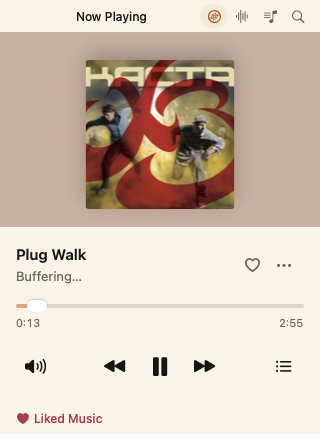
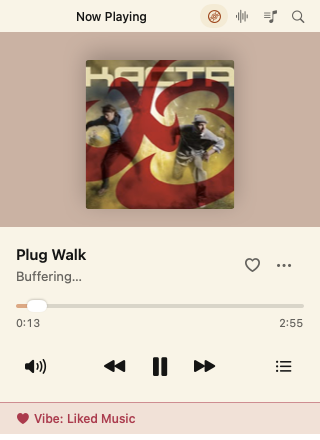
Now Playing's bottom line: a wash and a rule of the source's colour
The glass of the line along the bottom carries 10% of the source's
colour (a vibe's, or the accent), and the hairline above it is that
colour at 50%, so the line reads as belonging to what plays, not as a
grey divider.

Changed region(s): [[0.0938, 0.9159, 0.4375, 0.975]]

diff --git a/Sources/BSide/Views/NowPlaying/NowPlayingPage.swift b/Sources/BSide/Views/NowPlaying/NowPlayingPage.swift
@@ -14,6 +14,7 @@ struct NowPlayingPage: View {
     @Environment(\.previewArtworkHover) private var previewArtworkHover
     @Environment(\.pageShown) private var pageShown
     @ObservedObject private var outputs = AudioOutputs.shared
+    @Environment(\.colorScheme) private var colorScheme
 
     var body: some View {
         if let blocked = blockingState(for: player) {
@@ -108,10 +109,19 @@ struct NowPlayingPage: View {
                 .frame(height: Theme.Size.sourceBar)
                 .frame(maxWidth: .infinity)
                 .barGlass(joined: .bottom)
-                .overlay(alignment: .top) { Divider() } // a line between the controls and the bar
+                // A wash of the source's colour over the glass, and a rule
+                // of it above: the line belongs to what plays.
+                .overlay { sourceColour.opacity(Theme.Opacity.sourceWash).allowsHitTesting(false) }
+                .overlay(alignment: .top) { sourceColour.opacity(Theme.Opacity.sourceRule).frame(height: Theme.Size.hairline) }
                 .animation(.easeInOut(duration: Theme.Motion.page), value: player.sourceLabel)
             }
         }
+    }
+
+    /// The source's colour, for the bottom line; the muted text colour when
+    /// only the output device is on it.
+    private var sourceColour: Color {
+        player.sourceLabel.map { SourceLine.colour(of: $0, in: colorScheme) } ?? Theme.Colors.textMuted
     }
 
     /// Opens the list of what plays next in the artwork's place, and closes

diff --git a/Sources/BSide/Design/Theme.swift b/Sources/BSide/Design/Theme.swift
@@ -134,6 +134,8 @@ enum Theme {
         /// The progress bar: its line, its knob, how tall it is to the
         /// pointer, and the room a time label takes beside it.
         static var progressLine: CGFloat { (4) * scale }
+        /// The hairline above Now Playing's bottom line.
+        static let hairline: CGFloat = 1
         static var progressKnob: CGSize { CGSize(width: 20 * scale, height: 12 * scale) }
         static var progressTarget: CGFloat { (20) * scale }
         static var progressTick: CGFloat { (2) * scale }
@@ -182,6 +184,10 @@ enum Theme {
 
     enum Opacity {
         static let pressed: Double = 0.7
+        /// The source's colour over the glass of Now Playing's bottom line,
+        /// and in the hairline above it.
+        static let sourceWash: Double = 0.1
+        static let sourceRule: Double = 0.5
         /// The dark veil over the album cover while its actions show.
         static let scrim: Double = 0.45
         /// The hover circle under icon buttons, in the text colour.

diff --git a/Sources/BSide/Views/Window/NowPlayingStrip.swift b/Sources/BSide/Views/Window/NowPlayingStrip.swift
@@ -124,16 +124,16 @@ struct SourceLine: View {
         }
         .font(font)
         .fontWeight(.medium)
-        .foregroundStyle(colour)
+        .foregroundStyle(Self.colour(of: label, in: colorScheme))
         .lineLimit(1)
     }
 
     /// A vibe's deep colour on the light glass, its light one on the dark.
-    private var colour: Color {
+    static func colour(of label: SourceLabel, in scheme: ColorScheme) -> Color {
         switch label.kind {
         case .vibe(let index):
             let swatch = VibePalette.swatches[index]
-            return colorScheme == .dark ? swatch.light : swatch.deep
+            return scheme == .dark ? swatch.light : swatch.deep
         case .playlist, .album, .artist, .radio:
             return Theme.Colors.accentText
         }

diff --git a/design/SCREENS.md b/design/SCREENS.md
@@ -40,8 +40,9 @@ make them 15% and 30% bigger, and the window's least size with them.
   where, in the label role, the kind first ("Vibe: Focus", "Playlist:
   Night drive", "Album: …", "Artist: …", "Radio: <track>"), as the strip
   has it under the track on the other pages: a vibe in its colour, the
-  rest in the accent (since 2026-10-03). A hairline above it parts it
-  from the controls. A click goes to the source: the Vibe page, the
+  rest in the accent (since 2026-10-03). The glass carries a wash of that
+  colour (10%) and a hairline of it (50%) above, so the line belongs to
+  what plays. A click goes to the source: the Vibe page, the
   playlist's tracks, the album's or the artist's page; a radio has no
   page. At its other end, muted, the device the sound goes to when it is
   not the Mac's own speakers ("AirPods Pro"), so headphones left on are
